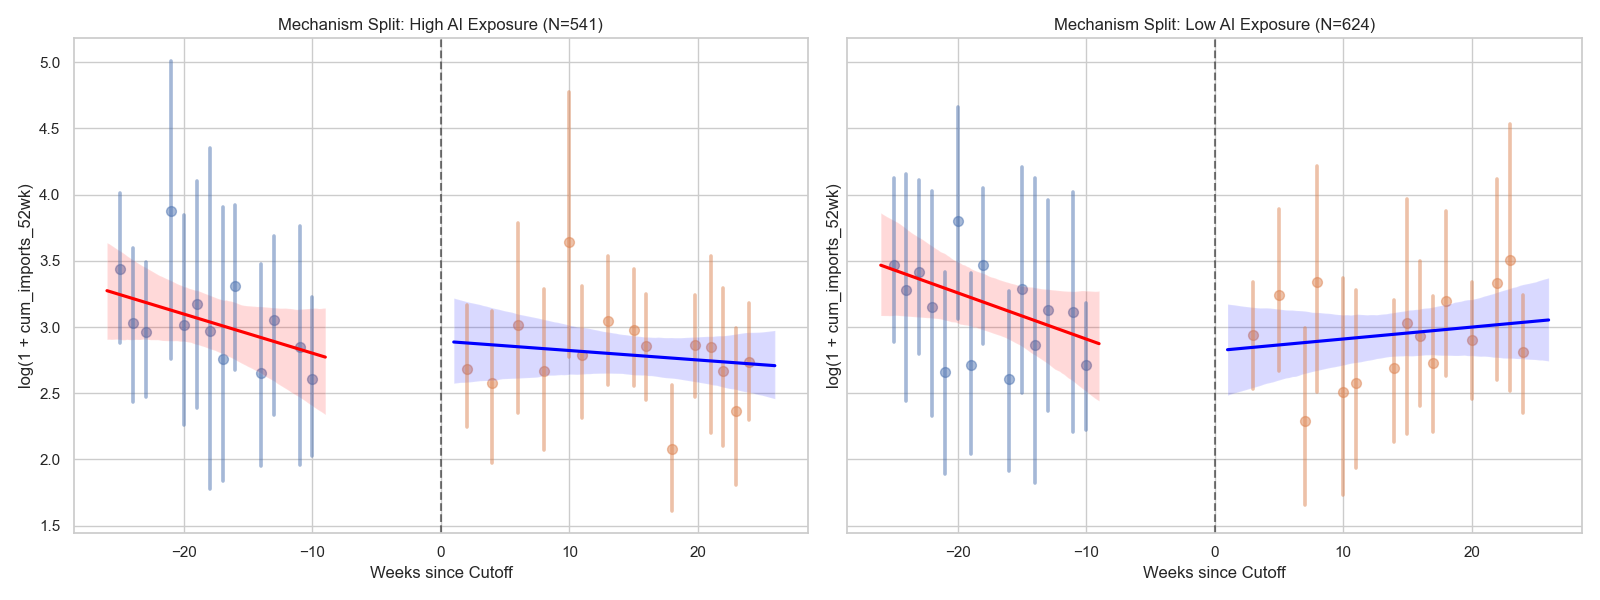
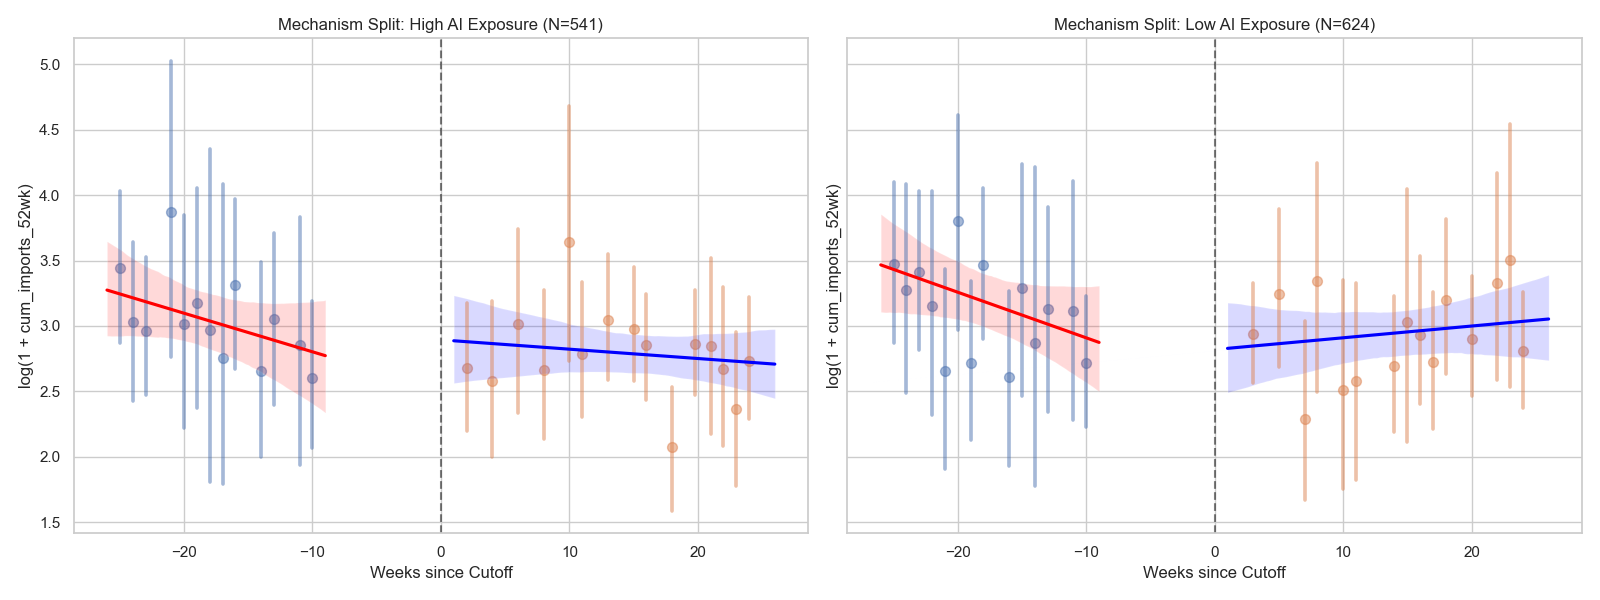
chore: final synchronization of mechanism outcomes and clustering documentation

diff --git a/scripts/10_ai_mechanism_split.py b/scripts/10_ai_mechanism_split.py
@@ -130,6 +130,11 @@ def main():
     print("=========================================\n")
     diff_df = pd.DataFrame(diff_results)
     print(diff_df.round(4).to_string(index=False))
+    
+    # Save the interaction results to CSV for reproducibility
+    interaction_out_path = RESULTS_DIR / "mechanism_interaction_results.csv"
+    diff_df.to_csv(interaction_out_path, index=False)
+    print(f"\nSaved formal interaction results to {interaction_out_path}")
 
 if __name__ == "__main__":
     main()

diff --git a/README.md b/README.md
@@ -45,7 +45,7 @@ Using a **Difference-in-Discontinuities (Diff-in-RDD)** design, we compare the 2
 ### 1. Mechanism Tests: Implementation vs. Discovery
 The diffusion gap is much stronger in actual code usage (GitHub) than in general package interest (PyPI).
 *   **The Implementation Gap (GitHub):** The discontinuity in GitHub usage (Estimate: 26.8) is **twice as large** as the interest gap in PyPI downloads (Estimate: 13.1).
-*   **Mechanism Moderation (Exploratory):** While libraries with **Low AI Exposure** show stronger directional suppression, a formal **Interaction Model** indicates that the difference between High and Low AI exposure groups is not yet statistically significant at conventional levels ($p \approx 0.179$). This suggests the "LLM Knowledge Wall" is a broad ecosystem effect.
+*   **Mechanism Moderation (Exploratory):** While libraries with **Low AI Exposure** show stronger directional suppression, a formal **Interaction Model** (using 52-week outcomes) indicates that the difference between High and Low AI exposure groups is not yet statistically significant at conventional levels ($p \approx 0.179$). This suggests the "LLM Knowledge Wall" is a broad ecosystem effect.
 
 ### Table 2: GitHub Implementation Results (Library Usage)
 | Specification | Outcome Variable | Robust (BC) Est. | Robust SE | Robust P-value | N |

diff --git a/results/new_results.md b/results/new_results.md
@@ -32,8 +32,9 @@ The diffusion gap is significantly stronger in actual code usage than in general
 
 ### 4. Mechanism & Heterogeneity: The AI Exposure Shield
 *   **Analysis:** Using a formal **Interaction Model** with week-clustered standard errors to test if AI exposure (measured via commit AI scores) moderates the cutoff effect.
+*   **Outcomes:** log(1 + 52-week downloads) and log(1 + 52-week imports).
 *   **Finding:** Libraries with **High AI Exposure** show directionally smaller suppression than **Low AI Exposure** libraries.
-*   **Statistical Verdict:** The interaction coefficient is **0.396** (P-value = 0.179) for downloads. While suggestive of a "bridging" mechanism where AI exposure can partially offset model exclusion, the difference is **not statistically significant** at conventional levels.
+*   **Statistical Verdict:** The interaction coefficient for 52-week downloads is **0.396** ($p = 0.179$). While suggestive of a "bridging" mechanism where AI exposure can partially offset model exclusion, the difference is **not statistically significant** at conventional levels.
 *   **Interpretation:** The "Knowledge Wall" created by the training cutoff appears to be a broad ecosystem effect that is not easily bypassed by high AI usage alone.
 
 ---

diff --git a/results/final_results_tables.md b/results/final_results_tables.md
@@ -38,12 +38,15 @@ This document provides the definitive tables for the master's thesis, matching t
 ---
 
 ## 3. Mechanism Test: AI Exposure Moderation
-**Model:** Interacted WLS with Year-by-Week Clusters  
-**Outcome:** log(1 + Post-AI Downloads)
+**Model:** Interacted WLS with Week-clustered Standard Errors  
+**Outcome:** log(1 + 52-week outcome)  
+**Sample:** 2021 Cohort only (Within-bandwidth h=26)
 
 | Outcome Variable | Diff-in-Discontinuity | Robust SE | P-value | N |
 | :--- | :--- | :--- | :--- | :--- |
-| **Post-AI Downloads** | 0.396 | 0.295 | 0.179 | 1,303 |
-| **Post-AI Imports** | 0.257 | 0.292 | 0.380 | 1,303 |
+| **total_downloads_52wk** | 0.396 | 0.295 | 0.179 | 1,303 |
+| **cum_imports_52wk** | 0.257 | 0.292 | 0.380 | 1,303 |
+
+> **Note:** The interaction term `treated:high_ai` identifies whether the discontinuity at the cutoff is statistically different between the High and Low AI exposure groups. 
 
 > **Note:** While the directional effect suggests High AI exposure libraries suffer less suppression, the interaction is not statistically significant at conventional levels. This suggests the "LLM Knowledge Wall" is a systemic effect affecting most new libraries.
